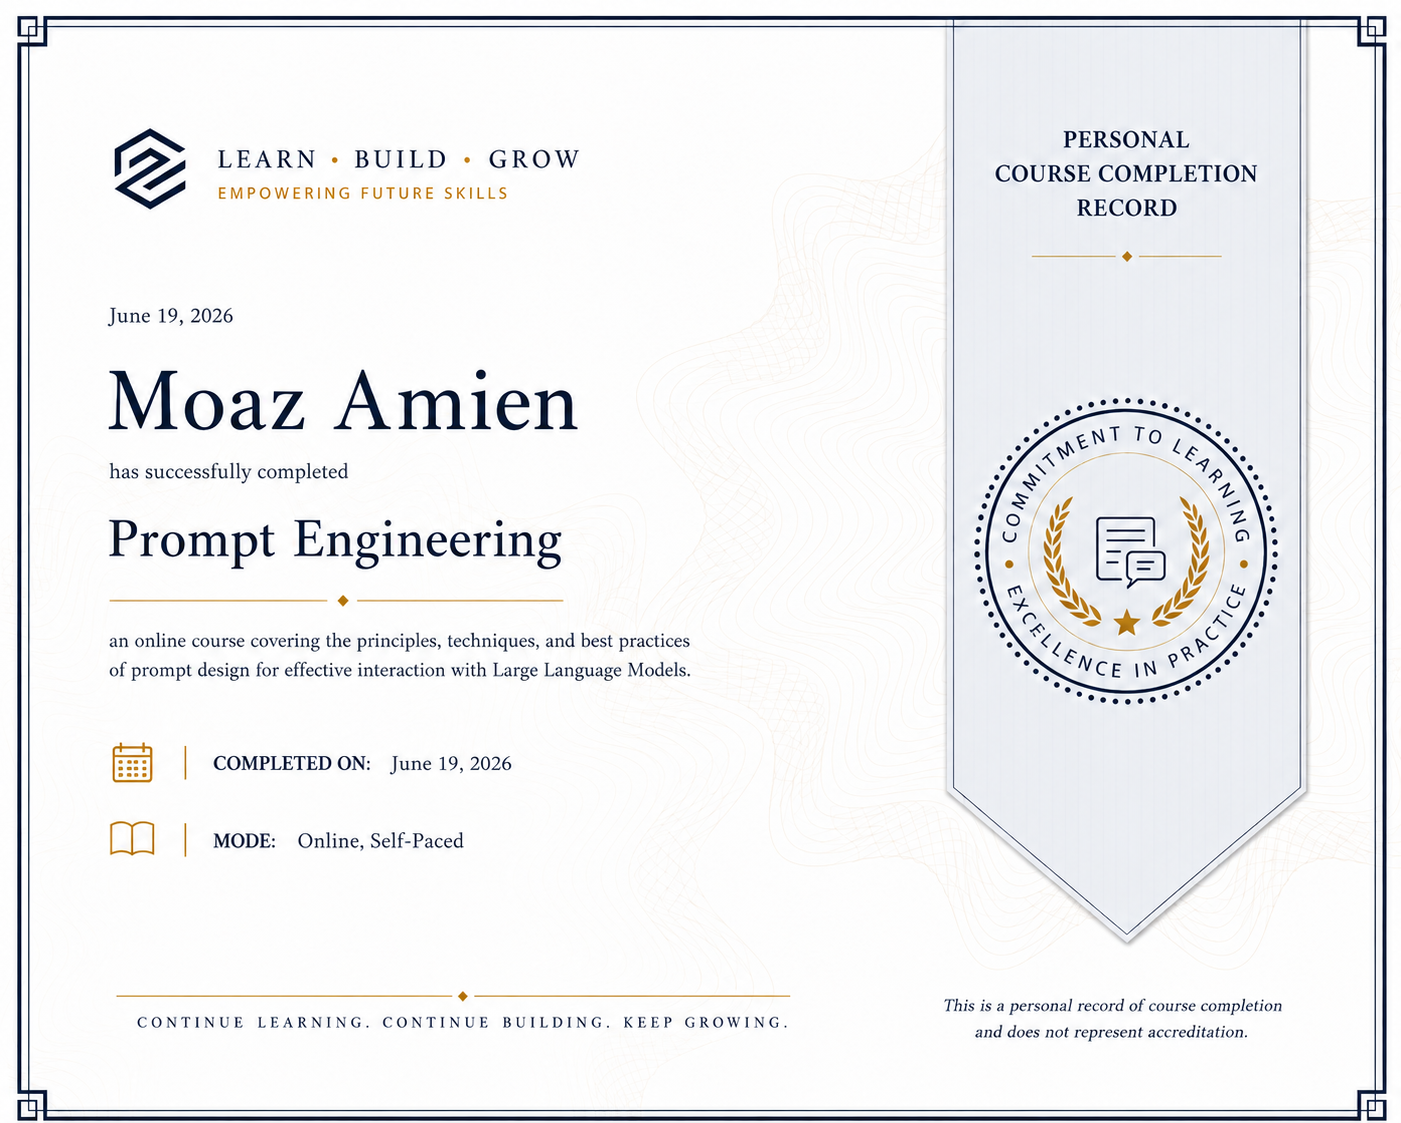
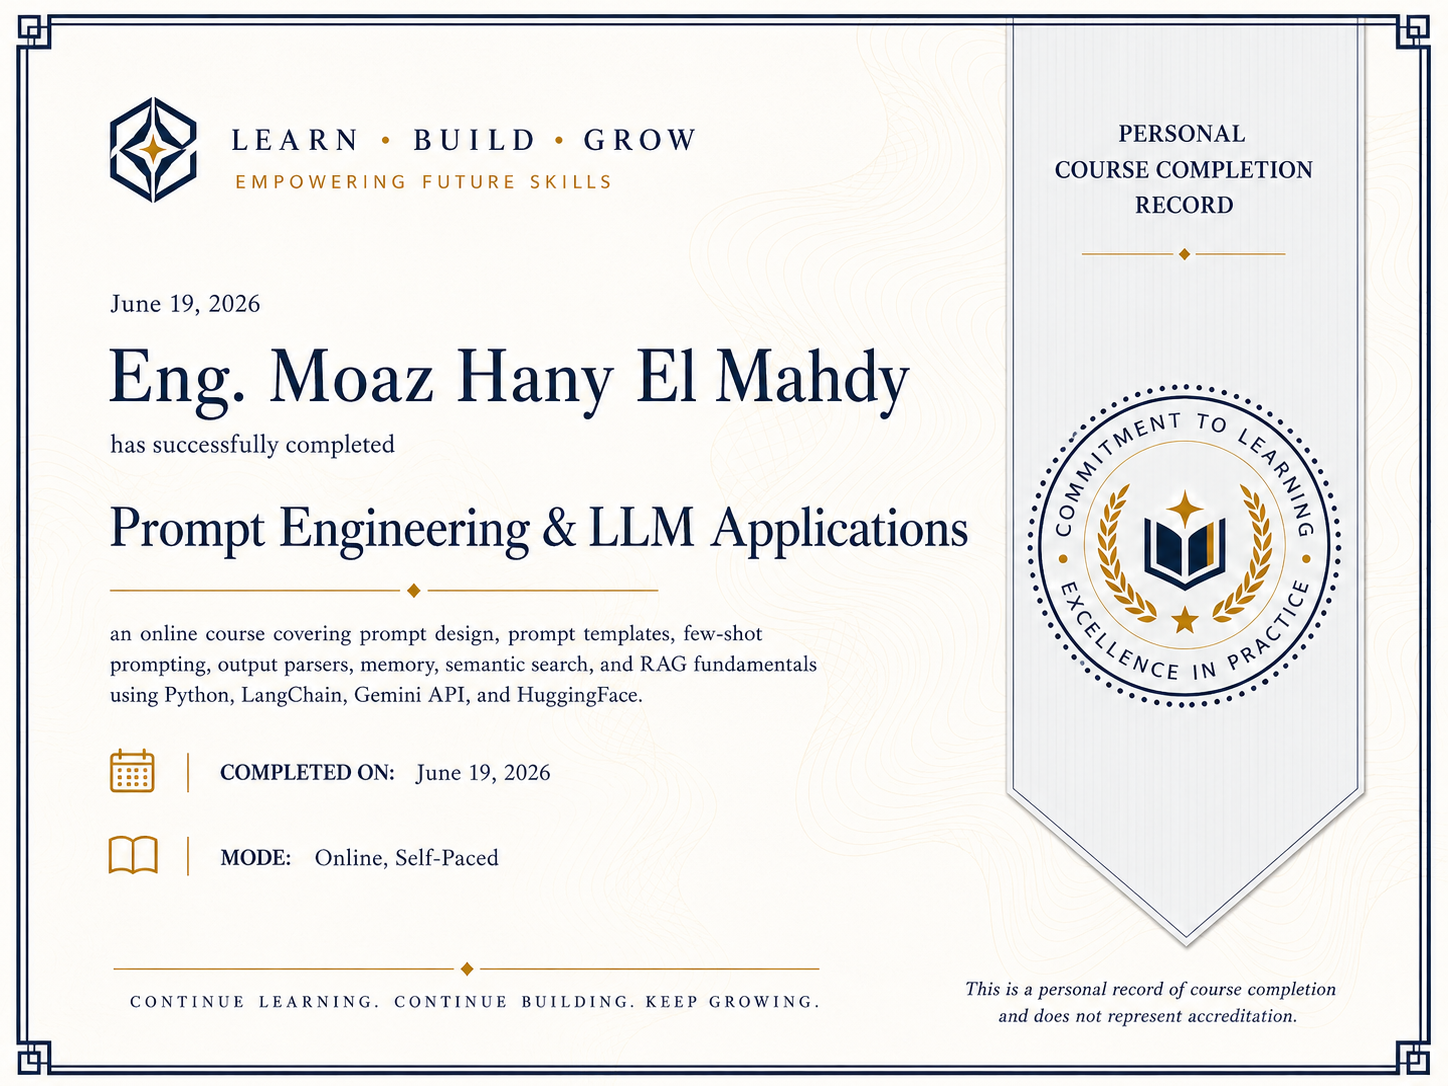
FINEXA

diff --git a/src/App.jsx b/src/App.jsx
@@ -222,8 +222,9 @@ const certificates = [
     type: "Zewail",
   },
   {
-    title: "Prompt Engineering for AI Applications",
-    subtitle: "Course Certificate-2026",
+    title: "Prompt Engineering & LLM Applications",
+    subtitle: "Self-Study Course",
+    date: "2026",
     image: cert5,
     type: "Course Certificate",
   },
@@ -257,6 +258,8 @@ const skills = [
       "Cross Validation",
       "Scikit-learn",
       "Prompt Engineering",
+      "Gemini API",
+      "LangChain Basics",
       "LLM Basics",
       "AI Chatbot Design",
     ],
